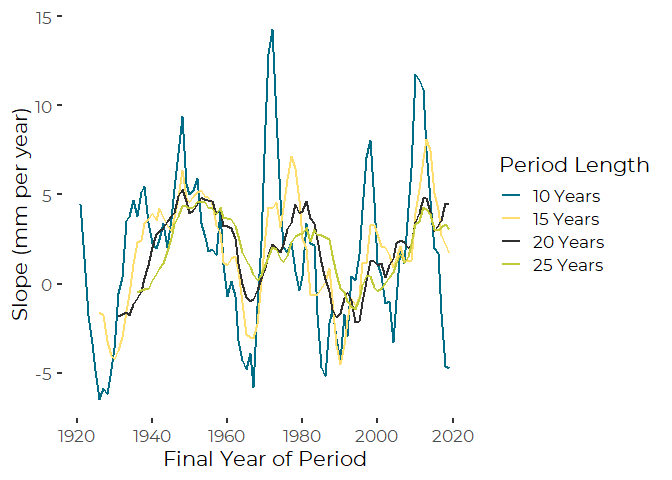
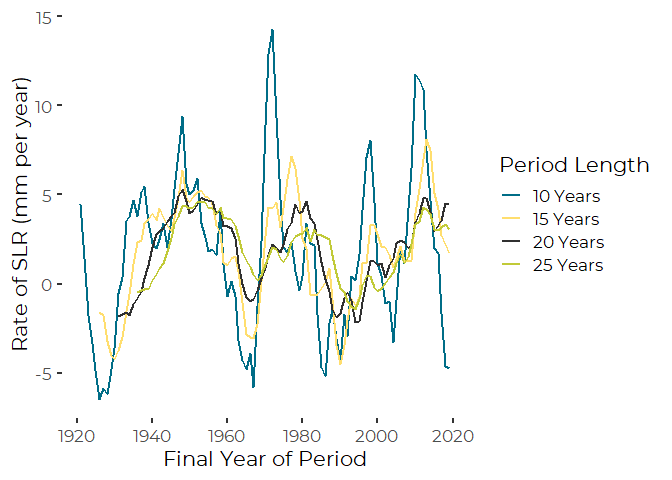
Change y axis label

Changed region(s): [[0.0, 0.1562, 0.0625, 0.75]]

diff --git a/Analysis/SLR_Recent_Trends.md b/Analysis/SLR_Recent_Trends.md
@@ -757,7 +757,7 @@ plt <- ggplot(results, aes(x = EndYear, y = AnnSlopemm)) +
          geom_line(aes(color = Span), size = 1) +
   
   xlab('Final Year of Period') +
-  ylab('Slope (mm per year)') +
+  ylab('Rate of SLR (mm per year)') +
   
   scale_color_manual(values = cbep_colors(), name = 'Period Length') +
   scale_x_continuous(breaks = c(1920, 1940, 1960, 1980, 2000, 2020))
